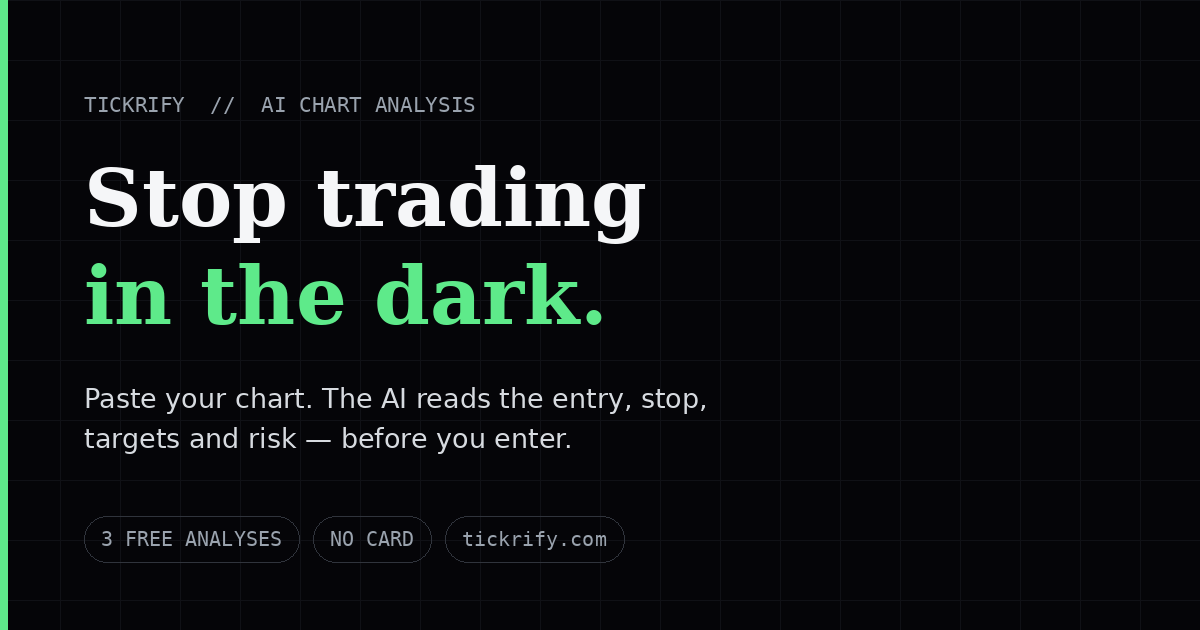
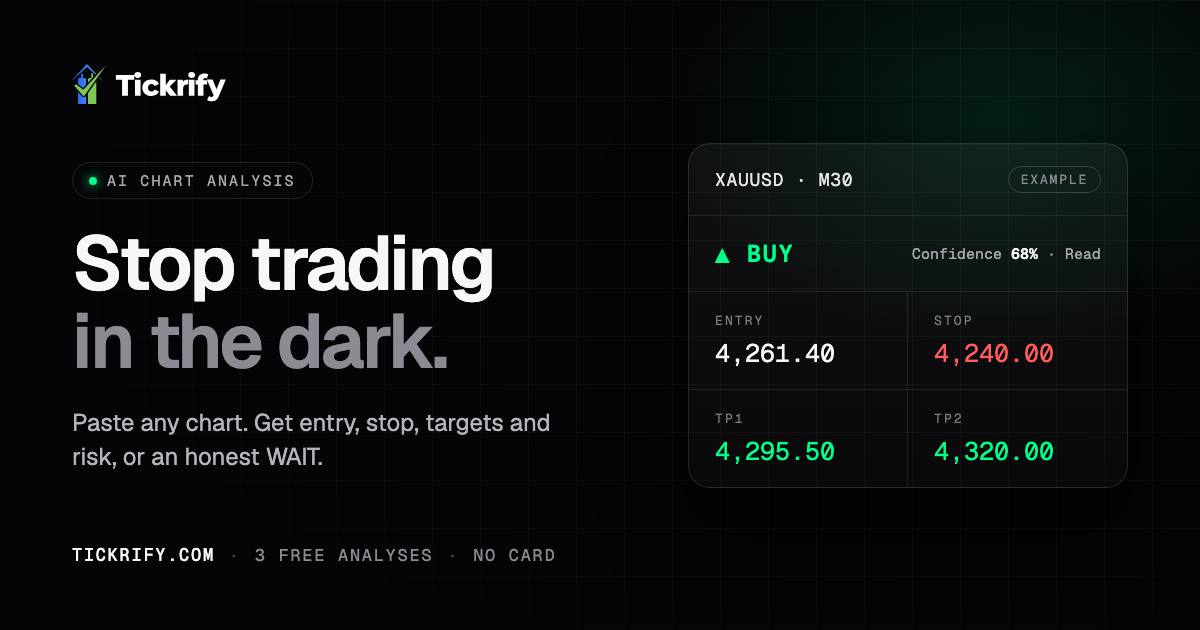
feat(seo): imagem de previa de link refeita na identidade atual
A previa no WhatsApp/Instagram/X usava o og.png antigo (fonte serifada,
verde antigo, texto com travessao). Arte nova com o visual do site e o mesmo
cartao "Example" da landing. Referencias viram og.png?v=2 para furar o cache
de WhatsApp/Facebook; alt de imagem sem travessao.

diff --git a/apps/frontend/public/blog/risk-reward-ratio/index.html b/apps/frontend/public/blog/risk-reward-ratio/index.html
@@ -12,14 +12,14 @@
   <meta property="og:type" content="article" />
   <meta property="og:url" content="https://tickrify.com/blog/risk-reward-ratio/" />
   <meta property="og:site_name" content="Tickrify" />
-  <meta property="og:image" content="https://tickrify.com/og.png" />
+  <meta property="og:image" content="https://tickrify.com/og.png?v=2" />
   <meta property="og:image:width" content="1200" />
   <meta property="og:image:height" content="630" />
   <meta property="og:image:alt" content="Tickrify, AI chart analysis for traders" />
   <meta name="twitter:card" content="summary_large_image" />
   <meta name="twitter:title" content="What Is a Good Risk-Reward Ratio? The Win Rate Each One Requires" />
   <meta name="twitter:description" content="Break-even win rates for every common ratio, the formula, and what costs do to the threshold." />
-  <meta name="twitter:image" content="https://tickrify.com/og.png" />
+  <meta name="twitter:image" content="https://tickrify.com/og.png?v=2" />
   <link rel="preconnect" href="https://fonts.googleapis.com">
   <link rel="preconnect" href="https://fonts.gstatic.com" crossorigin>
   <!-- Fonte fora do caminho critico (21/09/2026). Medido no PageSpeed:
@@ -29,7 +29,7 @@
   <link href="https://fonts.googleapis.com/css2?family=Geist:wght@400;500;600;700&family=JetBrains+Mono:wght@400;500&family=Fraunces:opsz,wght@9..144,400;9..144,500;9..144,600&display=swap" rel="stylesheet" media="print" onload="this.media='all'">
   <noscript><link href="https://fonts.googleapis.com/css2?family=Geist:wght@400;500;600;700&family=JetBrains+Mono:wght@400;500&family=Fraunces:opsz,wght@9..144,400;9..144,500;9..144,600&display=swap" rel="stylesheet"></noscript>
   <script type="application/ld+json">
-  {"@context":"https://schema.org","@type":"Article","headline":"What Is a Good Risk-Reward Ratio? The Win Rate Each One Requires","description":"Break-even win rates for every common risk-reward ratio, the expectancy formula behind them, the effect of trading costs, and why a higher ratio is not free.","datePublished":"2026-09-14","dateModified":"2026-09-14","image":"https://tickrify.com/og.png","author":{"@type":"Organization","name":"Tickrify"},"publisher":{"@type":"Organization","name":"Tickrify"},"mainEntityOfPage":"https://tickrify.com/blog/risk-reward-ratio/"}
+  {"@context":"https://schema.org","@type":"Article","headline":"What Is a Good Risk-Reward Ratio? The Win Rate Each One Requires","description":"Break-even win rates for every common risk-reward ratio, the expectancy formula behind them, the effect of trading costs, and why a higher ratio is not free.","datePublished":"2026-09-14","dateModified":"2026-09-14","image":"https://tickrify.com/og.png?v=2","author":{"@type":"Organization","name":"Tickrify"},"publisher":{"@type":"Organization","name":"Tickrify"},"mainEntityOfPage":"https://tickrify.com/blog/risk-reward-ratio/"}
   </script>
   <script type="application/ld+json">
   {"@context":"https://schema.org","@type":"FAQPage","mainEntity":[{"@type":"Question","name":"What is a good risk-reward ratio?","acceptedAnswer":{"@type":"Answer","text":"There is no universally good ratio. A ratio is only good relative to the win rate you can actually achieve with it. The break-even win rate is 1 divided by (1 plus the ratio): 50 percent at 1:1, 40 percent at 1:1.5, 33.3 percent at 1:2, 25 percent at 1:3 and 20 percent at 1:4. A ratio is good if your real, cost-adjusted win rate clears that line with margin."}},{"@type":"Question","name":"What win rate do I need for a 1:2 risk-reward ratio?","acceptedAnswer":{"@type":"Answer","text":"33.3 percent to break even before costs. Including spread, commission and slippage worth roughly 10 percent of your risk per trade, the threshold rises to about 36.7 percent. To be meaningfully profitable rather than flat, target several points above that."}},{"@type":"Question","name":"Is a 1:3 risk-reward ratio realistic?","acceptedAnswer":{"@type":"Answer","text":"It is realistic only if you accept the win rate that comes with it. A target three times further away is hit less often, so 1:3 typically pairs with a win rate in the 25 to 40 percent range and long losing streaks. Raising the ratio does not add edge by itself, it moves the same edge into a different shape."}},{"@type":"Question","name":"How do trading costs change the break-even win rate?","acceptedAnswer":{"@type":"Answer","text":"The threshold becomes (1 plus c) divided by (1 plus R), where c is the round-trip cost expressed as a fraction of the risk. Costs hurt most at tight stops: the same spread is 2 percent of a 50 pip stop and 20 percent of a 5 pip stop, which is why scalping thresholds are far higher than the textbook numbers."}},{"@type":"Question","name":"Why is my realised risk-reward lower than my planned one?","acceptedAnswer":{"@type":"Answer","text":"Because of early exits. Moving a stop to break-even and taking partial profits early caps the winners that pay for the losers while leaving the full loss intact. If you plan 1:3 and cut most winners at 1:1, you are trading a 1:1 system and need a 50 percent win rate, not 25 percent."}}]}

diff --git a/apps/frontend/public/blog/ai-prop-firm-challenge/index.html b/apps/frontend/public/blog/ai-prop-firm-challenge/index.html
@@ -12,14 +12,14 @@
   <meta property="og:type" content="article" />
   <meta property="og:url" content="https://tickrify.com/blog/ai-prop-firm-challenge/" />
   <meta property="og:site_name" content="Tickrify" />
-  <meta property="og:image" content="https://tickrify.com/og.png" />
+  <meta property="og:image" content="https://tickrify.com/og.png?v=2" />
   <meta property="og:image:width" content="1200" />
   <meta property="og:image:height" content="630" />
   <meta property="og:image:alt" content="Tickrify, AI chart analysis for traders" />
   <meta name="twitter:card" content="summary_large_image" />
   <meta name="twitter:title" content="Can AI Chart Analysis Help You Pass a Prop Firm Challenge?" />
   <meta name="twitter:description" content="Evaluations are lost on risk rules, not on analysis. Here is the honest split." />
-  <meta name="twitter:image" content="https://tickrify.com/og.png" />
+  <meta name="twitter:image" content="https://tickrify.com/og.png?v=2" />
   <link rel="preconnect" href="https://fonts.googleapis.com">
   <link rel="preconnect" href="https://fonts.gstatic.com" crossorigin>
   <!-- Fonte fora do caminho critico (21/09/2026). Medido no PageSpeed:
@@ -29,7 +29,7 @@
   <link href="https://fonts.googleapis.com/css2?family=Geist:wght@400;500;600;700&family=JetBrains+Mono:wght@400;500&family=Fraunces:opsz,wght@9..144,400;9..144,500;9..144,600&display=swap" rel="stylesheet" media="print" onload="this.media='all'">
   <noscript><link href="https://fonts.googleapis.com/css2?family=Geist:wght@400;500;600;700&family=JetBrains+Mono:wght@400;500&family=Fraunces:opsz,wght@9..144,400;9..144,500;9..144,600&display=swap" rel="stylesheet"></noscript>
   <script type="application/ld+json">
-  {"@context":"https://schema.org","@type":"Article","headline":"Can AI Chart Analysis Help You Pass a Prop Firm Challenge?","description":"An honest split of what AI chart analysis helps with during a funded account evaluation, what it structurally cannot see, and how prop firm rules treat analysis tools.","datePublished":"2026-09-14","dateModified":"2026-09-14","image":"https://tickrify.com/og.png","author":{"@type":"Organization","name":"Tickrify"},"publisher":{"@type":"Organization","name":"Tickrify"},"mainEntityOfPage":"https://tickrify.com/blog/ai-prop-firm-challenge/"}
+  {"@context":"https://schema.org","@type":"Article","headline":"Can AI Chart Analysis Help You Pass a Prop Firm Challenge?","description":"An honest split of what AI chart analysis helps with during a funded account evaluation, what it structurally cannot see, and how prop firm rules treat analysis tools.","datePublished":"2026-09-14","dateModified":"2026-09-14","image":"https://tickrify.com/og.png?v=2","author":{"@type":"Organization","name":"Tickrify"},"publisher":{"@type":"Organization","name":"Tickrify"},"mainEntityOfPage":"https://tickrify.com/blog/ai-prop-firm-challenge/"}
   </script>
   <script type="application/ld+json">
   {"@context":"https://schema.org","@type":"FAQPage","mainEntity":[{"@type":"Question","name":"Are AI tools allowed in prop firm challenges?","acceptedAnswer":{"@type":"Answer","text":"Most firms restrict automation, copy trading and account connections rather than analysis. A tool that reads a chart screenshot and gives you an opinion, which you then act on manually, is usually treated like an indicator or a mentor. Rules differ and they change, so read your firm's terms and ask support in writing before you rely on any tool."}},{"@type":"Question","name":"Will AI chart analysis help me pass an evaluation?","acceptedAnswer":{"@type":"Answer","text":"Only at the margin, and only in one direction. Evaluations are usually failed on risk rules rather than on analysis: daily loss limits, oversized positions after a losing streak, and revenge trading. AI helps mainly by removing marginal trades and forcing an invalidation level before entry. It cannot fix position sizing or emotional discipline."}},{"@type":"Question","name":"What percentage of traders pass prop firm challenges?","acceptedAnswer":{"@type":"Answer","text":"Firms and industry trackers that publish figures generally report first-attempt pass rates in the region of 5 to 20 percent depending on the firm and the rule set, with the share of funded accounts that ever take a payout lower still. Treat any specific number as firm-specific and check the source and date."}},{"@type":"Question","name":"Does AI know my remaining drawdown?","acceptedAnswer":{"@type":"Answer","text":"No. A chart analysis tool does not see your account, your balance, your open positions or how close you are to a daily loss limit. It reads a chart. Every risk decision, which is what the evaluation actually measures, stays with you."}},{"@type":"Question","name":"What actually fails most challenge accounts?","acceptedAnswer":{"@type":"Answer","text":"Breaching a daily loss limit, usually after increasing size to recover a loss the same day; trading a news event with a stop that could not hold; and taking too many marginal setups in the final days while chasing the profit target."}}]}

diff --git a/apps/frontend/public/blog/free-ai-chart-analysis/index.html b/apps/frontend/public/blog/free-ai-chart-analysis/index.html
@@ -12,14 +12,14 @@
   <meta property="og:type" content="article" />
   <meta property="og:url" content="https://tickrify.com/blog/free-ai-chart-analysis/" />
   <meta property="og:site_name" content="Tickrify" />
-  <meta property="og:image" content="https://tickrify.com/og.png" />
+  <meta property="og:image" content="https://tickrify.com/og.png?v=2" />
   <meta property="og:image:width" content="1200" />
   <meta property="og:image:height" content="630" />
   <meta property="og:image:alt" content="Tickrify, AI chart analysis for traders" />
   <meta name="twitter:card" content="summary_large_image" />
   <meta name="twitter:title" content="Free AI Chart Analysis in 2026: What You Actually Get Without Paying" />
   <meta name="twitter:description" content="What is genuinely free, what free tiers hide, and the three jobs where free is honestly enough." />
-  <meta name="twitter:image" content="https://tickrify.com/og.png" />
+  <meta name="twitter:image" content="https://tickrify.com/og.png?v=2" />
   <link rel="preconnect" href="https://fonts.googleapis.com">
   <link rel="preconnect" href="https://fonts.gstatic.com" crossorigin>
   <!-- Fonte fora do caminho critico (21/09/2026). Medido no PageSpeed:
@@ -29,7 +29,7 @@
   <link href="https://fonts.googleapis.com/css2?family=Geist:wght@400;500;600;700&family=JetBrains+Mono:wght@400;500&family=Fraunces:opsz,wght@9..144,400;9..144,500;9..144,600&display=swap" rel="stylesheet" media="print" onload="this.media='all'">
   <noscript><link href="https://fonts.googleapis.com/css2?family=Geist:wght@400;500;600;700&family=JetBrains+Mono:wght@400;500&family=Fraunces:opsz,wght@9..144,400;9..144,500;9..144,600&display=swap" rel="stylesheet"></noscript>
   <script type="application/ld+json">
-  {"@context":"https://schema.org","@type":"Article","headline":"Free AI Chart Analysis in 2026: What You Actually Get Without Paying","description":"A vendor's honest map of free AI chart analysis: what general chat models do well, what free tiers hide, and the three jobs where free is enough.","datePublished":"2026-09-14","dateModified":"2026-09-14","image":"https://tickrify.com/og.png","author":{"@type":"Organization","name":"Tickrify"},"publisher":{"@type":"Organization","name":"Tickrify"},"mainEntityOfPage":"https://tickrify.com/blog/free-ai-chart-analysis/"}
+  {"@context":"https://schema.org","@type":"Article","headline":"Free AI Chart Analysis in 2026: What You Actually Get Without Paying","description":"A vendor's honest map of free AI chart analysis: what general chat models do well, what free tiers hide, and the three jobs where free is enough.","datePublished":"2026-09-14","dateModified":"2026-09-14","image":"https://tickrify.com/og.png?v=2","author":{"@type":"Organization","name":"Tickrify"},"publisher":{"@type":"Organization","name":"Tickrify"},"mainEntityOfPage":"https://tickrify.com/blog/free-ai-chart-analysis/"}
   </script>
   <script type="application/ld+json">
   {"@context":"https://schema.org","@type":"FAQPage","mainEntity":[{"@type":"Question","name":"Is there a free AI that analyses trading charts?","acceptedAnswer":{"@type":"Answer","text":"Yes. General chat models with vision, such as ChatGPT, Gemini and Claude, read chart screenshots at no cost and describe structure well. Several purpose-built tools also offer a limited free allowance. The differences are grounding in live price data, whether the tool is allowed to refuse a setup, and whether results are published."}},{"@type":"Question","name":"Can I analyse a chart with AI without signing up?","acceptedAnswer":{"@type":"Answer","text":"Some tools allow it. Tickrify offers a no-signup demo analysis at tickrify.com/try, with three free analyses after signup and no card required. Most competing free tiers require an account, and some require a card before the first analysis."}},{"@type":"Question","name":"What is the catch with free AI chart analysis?","acceptedAnswer":{"@type":"Answer","text":"The three common ones are a card required before the trial, a free tier that never refuses a setup because it exists to sell an upgrade, and reads with invented price levels because nothing grounds the model in live candles. None of those are visible from the pricing page."}},{"@type":"Question","name":"Is free AI chart analysis accurate?","acceptedAnswer":{"@type":"Answer","text":"Free tools are good at describing structure and bad at precise numbers. A vision model reading an image commonly invents entry and stop prices that are close to plausible and wrong by enough to matter. Verify every level against your own chart before acting on it."}},{"@type":"Question","name":"When is it worth paying for chart analysis?","acceptedAnswer":{"@type":"Answer","text":"When you need the same standard applied every time without writing the prompt, live data behind the read, a tool structurally permitted to say no trade, and a published track record. If you will genuinely run a careful prompt yourself every time, free is enough and you should keep your money."}}]}

diff --git a/apps/frontend/public/blog/can-ai-predict-the-market/index.html b/apps/frontend/public/blog/can-ai-predict-the-market/index.html
@@ -12,14 +12,14 @@
   <meta property="og:type" content="article" />
   <meta property="og:url" content="https://tickrify.com/blog/can-ai-predict-the-market/" />
   <meta property="og:site_name" content="Tickrify" />
-  <meta property="og:image" content="https://tickrify.com/og.png" />
+  <meta property="og:image" content="https://tickrify.com/og.png?v=2" />
   <meta property="og:image:width" content="1200" />
   <meta property="og:image:height" content="630" />
   <meta property="og:image:alt" content="Tickrify, AI chart analysis for traders" />
   <meta name="twitter:card" content="summary_large_image" />
   <meta name="twitter:title" content="Can AI Predict the Market? An Honest 2026 Answer" />
   <meta name="twitter:description" content="Prediction is the wrong question. Here is what AI actually does with a chart, and what it structurally cannot see." />
-  <meta name="twitter:image" content="https://tickrify.com/og.png" />
+  <meta name="twitter:image" content="https://tickrify.com/og.png?v=2" />
   <link rel="preconnect" href="https://fonts.googleapis.com">
   <link rel="preconnect" href="https://fonts.gstatic.com" crossorigin>
   <!-- Fonte fora do caminho critico (21/09/2026). Medido no PageSpeed:
@@ -29,7 +29,7 @@
   <link href="https://fonts.googleapis.com/css2?family=Geist:wght@400;500;600;700&family=JetBrains+Mono:wght@400;500&family=Fraunces:opsz,wght@9..144,400;9..144,500;9..144,600&display=swap" rel="stylesheet" media="print" onload="this.media='all'">
   <noscript><link href="https://fonts.googleapis.com/css2?family=Geist:wght@400;500;600;700&family=JetBrains+Mono:wght@400;500&family=Fraunces:opsz,wght@9..144,400;9..144,500;9..144,600&display=swap" rel="stylesheet"></noscript>
   <script type="application/ld+json">
-  {"@context":"https://schema.org","@type":"Article","headline":"Can AI Predict the Market? An Honest 2026 Answer","description":"Why prediction is the wrong question to ask of AI in markets, what a model genuinely extracts from a chart, and the four inputs it structurally cannot see.","datePublished":"2026-09-14","dateModified":"2026-09-14","image":"https://tickrify.com/og.png","author":{"@type":"Organization","name":"Tickrify"},"publisher":{"@type":"Organization","name":"Tickrify"},"mainEntityOfPage":"https://tickrify.com/blog/can-ai-predict-the-market/"}
+  {"@context":"https://schema.org","@type":"Article","headline":"Can AI Predict the Market? An Honest 2026 Answer","description":"Why prediction is the wrong question to ask of AI in markets, what a model genuinely extracts from a chart, and the four inputs it structurally cannot see.","datePublished":"2026-09-14","dateModified":"2026-09-14","image":"https://tickrify.com/og.png?v=2","author":{"@type":"Organization","name":"Tickrify"},"publisher":{"@type":"Organization","name":"Tickrify"},"mainEntityOfPage":"https://tickrify.com/blog/can-ai-predict-the-market/"}
   </script>
   <script type="application/ld+json">
   {"@context":"https://schema.org","@type":"FAQPage","mainEntity":[{"@type":"Question","name":"Can AI predict stock prices?","acceptedAnswer":{"@type":"Answer","text":"No. AI can estimate conditional probabilities from patterns in past data, but price is driven by future information that does not exist in the training set yet. Any tool claiming to predict price is describing a probability as a certainty."}},{"@type":"Question","name":"Is AI trading profitable?","acceptedAnswer":{"@type":"Answer","text":"AI-assisted trading can be profitable for the same reason any process can be: positive expectancy after costs, held consistently. The AI is not the edge. Position sizing, cost control and discipline decide the outcome, and a win rate quoted without spread, commission and slippage says nothing about profitability."}},{"@type":"Question","name":"Can ChatGPT predict the market?","acceptedAnswer":{"@type":"Answer","text":"No. ChatGPT can describe a chart you show it and reason about structure, but it has no live order flow, no reliable price feed unless you give it one, and it will invent specific price levels from an image. Treat it as a reader, not a forecaster."}},{"@type":"Question","name":"What accuracy can AI chart analysis realistically achieve?","acceptedAnswer":{"@type":"Answer","text":"Any figure is meaningless without the sample size, the confidence interval, the rule used to score a call, and whether trading costs were deducted. A tool that publishes a modest number with its methodology is more trustworthy than one advertising a high number with none."}},{"@type":"Question","name":"If AI cannot predict, what is it useful for?","acceptedAnswer":{"@type":"Answer","text":"Reading structure consistently, forcing an invalidation level before entry, applying the same standard when you are calm and when you are on tilt, and abstaining when there is no setup. That is a process filter, not a forecast."}}]}

diff --git a/apps/frontend/public/blog/tickrify-vs-chatgpt/index.html b/apps/frontend/public/blog/tickrify-vs-chatgpt/index.html
@@ -12,14 +12,14 @@
   <meta property="og:type" content="article" />
   <meta property="og:url" content="https://tickrify.com/blog/tickrify-vs-chatgpt/" />
   <meta property="og:site_name" content="Tickrify" />
-  <meta property="og:image" content="https://tickrify.com/og.png" />
+  <meta property="og:image" content="https://tickrify.com/og.png?v=2" />
   <meta property="og:image:width" content="1200" />
   <meta property="og:image:height" content="630" />
-  <meta property="og:image:alt" content="Tickrify — AI chart analysis for traders" />
+  <meta property="og:image:alt" content="Tickrify, AI chart analysis for traders" />
   <meta name="twitter:card" content="summary_large_image" />
   <meta name="twitter:title" content="Tickrify vs ChatGPT for Trading Charts: When Is Paying Worth It?" />
   <meta name="twitter:description" content="Free ChatGPT vs a purpose-built second opinion, head to head — from the vendor that will tell you to keep using ChatGPT if it serves you better." />
-  <meta name="twitter:image" content="https://tickrify.com/og.png" />
+  <meta name="twitter:image" content="https://tickrify.com/og.png?v=2" />
   <link rel="preconnect" href="https://fonts.googleapis.com">
   <link rel="preconnect" href="https://fonts.gstatic.com" crossorigin>
   <!-- Fonte fora do caminho critico (21/09/2026). Medido no PageSpeed:
@@ -29,7 +29,7 @@
   <link href="https://fonts.googleapis.com/css2?family=Geist:wght@400;500;600;700&family=JetBrains+Mono:wght@400;500&family=Fraunces:opsz,wght@9..144,400;9..144,500;9..144,600&display=swap" rel="stylesheet" media="print" onload="this.media='all'">
   <noscript><link href="https://fonts.googleapis.com/css2?family=Geist:wght@400;500;600;700&family=JetBrains+Mono:wght@400;500&family=Fraunces:opsz,wght@9..144,400;9..144,500;9..144,600&display=swap" rel="stylesheet"></noscript>
   <script type="application/ld+json">
-  {"@context":"https://schema.org","@type":"Article","headline":"Tickrify vs ChatGPT for Trading Charts: When Is Paying Worth It?","datePublished":"2026-07-22","dateModified":"2026-08-10","image":"https://tickrify.com/og.png","author":{"@type":"Organization","name":"Tickrify"},"publisher":{"@type":"Organization","name":"Tickrify"},"mainEntityOfPage":"https://tickrify.com/blog/tickrify-vs-chatgpt/"}
+  {"@context":"https://schema.org","@type":"Article","headline":"Tickrify vs ChatGPT for Trading Charts: When Is Paying Worth It?","datePublished":"2026-07-22","dateModified":"2026-08-10","image":"https://tickrify.com/og.png?v=2","author":{"@type":"Organization","name":"Tickrify"},"publisher":{"@type":"Organization","name":"Tickrify"},"mainEntityOfPage":"https://tickrify.com/blog/tickrify-vs-chatgpt/"}
   </script>
   <script type="application/ld+json">
   {"@context": "https://schema.org", "@type": "FAQPage", "mainEntity": [{"@type": "Question", "name": "Is Tickrify better than ChatGPT for charts?", "acceptedAnswer": {"@type": "Answer", "text": "For a decision checkpoint, it does things ChatGPT can't: live price grounding, a forced verdict with invalidation, WAIT discipline, and a stored history. For learning and open-ended questions, ChatGPT is better. They're different jobs."}}, {"@type": "Question", "name": "Can't I just prompt ChatGPT better and skip paying?", "acceptedAnswer": {"@type": "Answer", "text": "Largely, yes — there's a copy-paste prompt above that closes most of the gap. What it can't do is supply accurate live prices automatically or keep a record. If you'll do that manually every time, free is the right answer."}}, {"@type": "Question", "name": "How much does Tickrify cost?", "acceptedAnswer": {"@type": "Answer", "text": "Three analyses free with no card, then $29/mo for 200 Ticks — about 15 cents per quick analysis. Full pricing here."}}, {"@type": "Question", "name": "Does Tickrify use a different AI model than ChatGPT?", "acceptedAnswer": {"@type": "Answer", "text": "Underneath it's the same family of vision-language models. The difference is what surrounds the model: live data, deterministic maths, forced output structure and outcome tracking — not a secret model."}}, {"@type": "Question", "name": "Does Tickrify publish its accuracy?", "acceptedAnswer": {"@type": "Answer", "text": "Yes, with sample sizes and 95% confidence intervals, including results that don't flatter us — on the accuracy page. We're not aware of another tool in this category that publishes one."}}]}

diff --git a/apps/frontend/public/blog/chatgpt-chart-analysis/index.html b/apps/frontend/public/blog/chatgpt-chart-analysis/index.html
@@ -12,14 +12,14 @@
   <meta property="og:type" content="article" />
   <meta property="og:url" content="https://tickrify.com/blog/chatgpt-chart-analysis/" />
   <meta property="og:site_name" content="Tickrify" />
-  <meta property="og:image" content="https://tickrify.com/og.png" />
+  <meta property="og:image" content="https://tickrify.com/og.png?v=2" />
   <meta property="og:image:width" content="1200" />
   <meta property="og:image:height" content="630" />
-  <meta property="og:image:alt" content="Tickrify — AI chart analysis for traders" />
+  <meta property="og:image:alt" content="Tickrify, AI chart analysis for traders" />
   <meta name="twitter:card" content="summary_large_image" />
   <meta name="twitter:title" content="Can ChatGPT Analyze Trading Charts? An Honest 2026 Answer" />
   <meta name="twitter:description" content="What ChatGPT does well with charts, where it fails, and when a purpose-built tool is worth paying for — from a company with an admitted bias." />
-  <meta name="twitter:image" content="https://tickrify.com/og.png" />
+  <meta name="twitter:image" content="https://tickrify.com/og.png?v=2" />
   <link rel="preconnect" href="https://fonts.googleapis.com">
   <link rel="preconnect" href="https://fonts.gstatic.com" crossorigin>
   <!-- Fonte fora do caminho critico (21/09/2026). Medido no PageSpeed:
@@ -29,7 +29,7 @@
   <link href="https://fonts.googleapis.com/css2?family=Geist:wght@400;500;600;700&family=JetBrains+Mono:wght@400;500&family=Fraunces:opsz,wght@9..144,400;9..144,500;9..144,600&display=swap" rel="stylesheet" media="print" onload="this.media='all'">
   <noscript><link href="https://fonts.googleapis.com/css2?family=Geist:wght@400;500;600;700&family=JetBrains+Mono:wght@400;500&family=Fraunces:opsz,wght@9..144,400;9..144,500;9..144,600&display=swap" rel="stylesheet"></noscript>
   <script type="application/ld+json">
-  {"@context":"https://schema.org","@type":"Article","headline":"Can ChatGPT Analyze Trading Charts? An Honest 2026 Answer","datePublished":"2026-07-20","dateModified":"2026-08-10","image":"https://tickrify.com/og.png","author":{"@type":"Organization","name":"Tickrify"},"publisher":{"@type":"Organization","name":"Tickrify"},"mainEntityOfPage":"https://tickrify.com/blog/chatgpt-chart-analysis/"}
+  {"@context":"https://schema.org","@type":"Article","headline":"Can ChatGPT Analyze Trading Charts? An Honest 2026 Answer","datePublished":"2026-07-20","dateModified":"2026-08-10","image":"https://tickrify.com/og.png?v=2","author":{"@type":"Organization","name":"Tickrify"},"publisher":{"@type":"Organization","name":"Tickrify"},"mainEntityOfPage":"https://tickrify.com/blog/chatgpt-chart-analysis/"}
   </script>
   <script type="application/ld+json">
   {"@context": "https://schema.org", "@type": "FAQPage", "mainEntity": [{"@type": "Question", "name": "Can ChatGPT read a chart screenshot?", "acceptedAnswer": {"@type": "Answer", "text": "Yes. It identifies trend, structure, patterns and approximate support and resistance from an image. What it can't do is know the real current price, or whether your screenshot is current."}}, {"@type": "Question", "name": "Is ChatGPT accurate for trading?", "acceptedAnswer": {"@type": "Answer", "text": "It's reasonable at describing what a chart shows and unreliable at anything requiring exact price. Nobody — including paid tools — has demonstrated a profitable edge on raw AI chart signals after spreads, slippage and fees."}}, {"@type": "Question", "name": "What's the best prompt for chart analysis?", "acceptedAnswer": {"@type": "Answer", "text": "One that supplies the current price, forces a fixed set of fields including invalidation, and explicitly permits \"no trade\". There's a copy-paste version above."}}, {"@type": "Question", "name": "Should I pay for an AI chart tool instead?", "acceptedAnswer": {"@type": "Answer", "text": "Only if it adds live data, forced structure, auditable confidence and history. Test the free option first — if it changes your decisions just as much, keep your money."}}, {"@type": "Question", "name": "Can ChatGPT predict where price is going?", "acceptedAnswer": {"@type": "Answer", "text": "No. A chart image contains nothing about upcoming news, order flow or resting liquidity. It's pattern recognition over the past, not prediction."}}]}

diff --git a/apps/frontend/public/blog/trading-second-opinion/index.html b/apps/frontend/public/blog/trading-second-opinion/index.html
@@ -12,14 +12,14 @@
   <meta property="og:type" content="article" />
   <meta property="og:url" content="https://tickrify.com/blog/trading-second-opinion/" />
   <meta property="og:site_name" content="Tickrify" />
-  <meta property="og:image" content="https://tickrify.com/og.png" />
+  <meta property="og:image" content="https://tickrify.com/og.png?v=2" />
   <meta property="og:image:width" content="1200" />
   <meta property="og:image:height" content="630" />
-  <meta property="og:image:alt" content="Tickrify — AI chart analysis for traders" />
+  <meta property="og:image:alt" content="Tickrify, AI chart analysis for traders" />
   <meta name="twitter:card" content="summary_large_image" />
   <meta name="twitter:title" content="You Don't Need More Signals. You Need a Second Opinion." />
   <meta name="twitter:description" content="Signal-selling is broken by design. A confirm-or-kill checkpoint is a different thing entirely." />
-  <meta name="twitter:image" content="https://tickrify.com/og.png" />
+  <meta name="twitter:image" content="https://tickrify.com/og.png?v=2" />
   <link rel="preconnect" href="https://fonts.googleapis.com">
   <link rel="preconnect" href="https://fonts.gstatic.com" crossorigin>
   <!-- Fonte fora do caminho critico (21/09/2026). Medido no PageSpeed:
@@ -29,7 +29,7 @@
   <link href="https://fonts.googleapis.com/css2?family=Geist:wght@400;500;600;700&family=JetBrains+Mono:wght@400;500&family=Fraunces:opsz,wght@9..144,400;9..144,500;9..144,600&display=swap" rel="stylesheet" media="print" onload="this.media='all'">
   <noscript><link href="https://fonts.googleapis.com/css2?family=Geist:wght@400;500;600;700&family=JetBrains+Mono:wght@400;500&family=Fraunces:opsz,wght@9..144,400;9..144,500;9..144,600&display=swap" rel="stylesheet"></noscript>
   <script type="application/ld+json">
-  {"@context":"https://schema.org","@type":"Article","headline":"You Don't Need More Signals. You Need a Second Opinion.","datePublished":"2026-07-20","dateModified":"2026-08-10","image":"https://tickrify.com/og.png","author":{"@type":"Organization","name":"Tickrify"},"publisher":{"@type":"Organization","name":"Tickrify"},"mainEntityOfPage":"https://tickrify.com/blog/trading-second-opinion/"}
+  {"@context":"https://schema.org","@type":"Article","headline":"You Don't Need More Signals. You Need a Second Opinion.","datePublished":"2026-07-20","dateModified":"2026-08-10","image":"https://tickrify.com/og.png?v=2","author":{"@type":"Organization","name":"Tickrify"},"publisher":{"@type":"Organization","name":"Tickrify"},"mainEntityOfPage":"https://tickrify.com/blog/trading-second-opinion/"}
   </script>
   <script type="application/ld+json">
   {"@context": "https://schema.org", "@type": "FAQPage", "mainEntity": [{"@type": "Question", "name": "What's the difference between a trading signal and a second opinion?", "acceptedAnswer": {"@type": "Answer", "text": "A signal originates the idea and tells you to act. A second opinion starts from your idea and either confirms or kills it. The first adds trades; the second removes them."}}, {"@type": "Question", "name": "Are AI trading signals worth paying for?", "acceptedAnswer": {"@type": "Answer", "text": "Anything advertising a high win rate without a published methodology and sample size is selling certainty that doesn't exist. Nobody in this category has demonstrated raw signals that survive spreads, slippage and fees."}}, {"@type": "Question", "name": "Does saying \"no trade\" mean the tool is broken?", "acceptedAnswer": {"@type": "Answer", "text": "No — a high abstention rate is what a tool with no signal quota looks like. Most charts, most of the time, don't contain a setup worth risking money on."}}, {"@type": "Question", "name": "How do I stop overtrading?", "acceptedAnswer": {"@type": "Answer", "text": "Write your read down before entering, refuse any trade without a defined invalidation, impose a delay between decision and click, and log outcomes. Those four cost nothing and address the actual failure point."}}, {"@type": "Question", "name": "Can I do this without buying a tool?", "acceptedAnswer": {"@type": "Answer", "text": "Yes — there's a six-step version above. A paid checkpoint automates it for the day your discipline is weakest, which is the only honest thing it's selling."}}]}

diff --git a/apps/frontend/public/blog/tickrify-vs-tradingview/index.html b/apps/frontend/public/blog/tickrify-vs-tradingview/index.html
@@ -12,14 +12,14 @@
   <meta property="og:type" content="article" />
   <meta property="og:url" content="https://tickrify.com/blog/tickrify-vs-tradingview/" />
   <meta property="og:site_name" content="Tickrify" />
-  <meta property="og:image" content="https://tickrify.com/og.png" />
+  <meta property="og:image" content="https://tickrify.com/og.png?v=2" />
   <meta property="og:image:width" content="1200" />
   <meta property="og:image:height" content="630" />
-  <meta property="og:image:alt" content="Tickrify — AI chart analysis for traders" />
+  <meta property="og:image:alt" content="Tickrify, AI chart analysis for traders" />
   <meta name="twitter:card" content="summary_large_image" />
   <meta name="twitter:title" content="Tickrify vs TradingView (2026): Do You Actually Need Both?" />
   <meta name="twitter:description" content="One is where you watch the market. The other tells you whether a specific setup is worth the risk. An honest comparison by the vendor of one of them." />
-  <meta name="twitter:image" content="https://tickrify.com/og.png" />
+  <meta name="twitter:image" content="https://tickrify.com/og.png?v=2" />
   <link rel="preconnect" href="https://fonts.googleapis.com">
   <link rel="preconnect" href="https://fonts.gstatic.com" crossorigin>
   <!-- Fonte fora do caminho critico (21/09/2026). Medido no PageSpeed:
@@ -29,7 +29,7 @@
   <link href="https://fonts.googleapis.com/css2?family=Geist:wght@400;500;600;700&family=JetBrains+Mono:wght@400;500&family=Fraunces:opsz,wght@9..144,400;9..144,500;9..144,600&display=swap" rel="stylesheet" media="print" onload="this.media='all'">
   <noscript><link href="https://fonts.googleapis.com/css2?family=Geist:wght@400;500;600;700&family=JetBrains+Mono:wght@400;500&family=Fraunces:opsz,wght@9..144,400;9..144,500;9..144,600&display=swap" rel="stylesheet"></noscript>
   <script type="application/ld+json">
-  {"@context":"https://schema.org","@type":"Article","headline":"Tickrify vs TradingView: Do You Actually Need Both?","datePublished":"2026-07-22","dateModified":"2026-08-10","image":"https://tickrify.com/og.png","author":{"@type":"Organization","name":"Tickrify"},"publisher":{"@type":"Organization","name":"Tickrify"},"mainEntityOfPage":"https://tickrify.com/blog/tickrify-vs-tradingview/"}
+  {"@context":"https://schema.org","@type":"Article","headline":"Tickrify vs TradingView: Do You Actually Need Both?","datePublished":"2026-07-22","dateModified":"2026-08-10","image":"https://tickrify.com/og.png?v=2","author":{"@type":"Organization","name":"Tickrify"},"publisher":{"@type":"Organization","name":"Tickrify"},"mainEntityOfPage":"https://tickrify.com/blog/tickrify-vs-tradingview/"}
   </script>
   <script type="application/ld+json">
   {"@context": "https://schema.org", "@type": "FAQPage", "mainEntity": [{"@type": "Question", "name": "Is Tickrify a TradingView replacement?", "acceptedAnswer": {"@type": "Answer", "text": "No, and it isn't trying to be. It has no charting, no alerts, no screeners and no broker integration. Most users screenshot from TradingView."}}, {"@type": "Question", "name": "Do I need both?", "acceptedAnswer": {"@type": "Answer", "text": "You need charts. Whether you need a second opinion on top depends on whether your losses come from bad entries you'd have skipped with a checkpoint. If you had to pick one, pick the charting platform."}}, {"@type": "Question", "name": "How is this different from TradingView's own AI assistant?", "acceptedAnswer": {"@type": "Answer", "text": "Two things: it's willing to return \"no trade\", and its results are published with sample sizes and confidence intervals. If you're happy with the in-chart copilot, you may not need us."}}, {"@type": "Question", "name": "Does Tickrify work with screenshots from other platforms?", "acceptedAnswer": {"@type": "Answer", "text": "Yes — MetaTrader, exchange interfaces, mobile apps. It reads the instrument and timeframe from the chart and fetches real candles for it."}}, {"@type": "Question", "name": "Can Tickrify place trades for me?", "acceptedAnswer": {"@type": "Answer", "text": "No, and it won't. A tool that both advises and executes has an incentive problem we'd rather not have."}}]}

diff --git a/apps/frontend/public/blog/best-ai-chart-analysis-tools/index.html b/apps/frontend/public/blog/best-ai-chart-analysis-tools/index.html
@@ -12,14 +12,14 @@
   <meta property="og:type" content="article" />
   <meta property="og:url" content="https://tickrify.com/blog/best-ai-chart-analysis-tools/" />
   <meta property="og:site_name" content="Tickrify" />
-  <meta property="og:image" content="https://tickrify.com/og.png" />
+  <meta property="og:image" content="https://tickrify.com/og.png?v=2" />
   <meta property="og:image:width" content="1200" />
   <meta property="og:image:height" content="630" />
-  <meta property="og:image:alt" content="Tickrify — AI chart analysis for traders" />
+  <meta property="og:image:alt" content="Tickrify, AI chart analysis for traders" />
   <meta name="twitter:card" content="summary_large_image" />
   <meta name="twitter:title" content="Best AI Chart Analysis Tools in 2026: An Honest Comparison" />
   <meta name="twitter:description" content="The screenshot-analysis niche compared on the four things that matter — by a vendor that admits its bias upfront." />
-  <meta name="twitter:image" content="https://tickrify.com/og.png" />
+  <meta name="twitter:image" content="https://tickrify.com/og.png?v=2" />
   <link rel="preconnect" href="https://fonts.googleapis.com">
   <link rel="preconnect" href="https://fonts.gstatic.com" crossorigin>
   <!-- Fonte fora do caminho critico (21/09/2026). Medido no PageSpeed:
@@ -29,7 +29,7 @@
   <link href="https://fonts.googleapis.com/css2?family=Geist:wght@400;500;600;700&family=JetBrains+Mono:wght@400;500&family=Fraunces:opsz,wght@9..144,400;9..144,500;9..144,600&display=swap" rel="stylesheet" media="print" onload="this.media='all'">
   <noscript><link href="https://fonts.googleapis.com/css2?family=Geist:wght@400;500;600;700&family=JetBrains+Mono:wght@400;500&family=Fraunces:opsz,wght@9..144,400;9..144,500;9..144,600&display=swap" rel="stylesheet"></noscript>
   <script type="application/ld+json">
-  {"@context":"https://schema.org","@type":"Article","headline":"Best AI Chart Analysis Tools in 2026: An Honest Comparison (Including Ours)","datePublished":"2026-07-20","dateModified":"2026-08-10","image":"https://tickrify.com/og.png","author":{"@type":"Organization","name":"Tickrify"},"publisher":{"@type":"Organization","name":"Tickrify"},"mainEntityOfPage":"https://tickrify.com/blog/best-ai-chart-analysis-tools/"}
+  {"@context":"https://schema.org","@type":"Article","headline":"Best AI Chart Analysis Tools in 2026: An Honest Comparison (Including Ours)","datePublished":"2026-07-20","dateModified":"2026-08-10","image":"https://tickrify.com/og.png?v=2","author":{"@type":"Organization","name":"Tickrify"},"publisher":{"@type":"Organization","name":"Tickrify"},"mainEntityOfPage":"https://tickrify.com/blog/best-ai-chart-analysis-tools/"}
   </script>
   <script type="application/ld+json">
   {"@context":"https://schema.org","@type":"FAQPage","mainEntity":[

diff --git a/apps/frontend/public/blog/ai-chart-analysis/index.html b/apps/frontend/public/blog/ai-chart-analysis/index.html
@@ -12,14 +12,14 @@
   <meta property="og:type" content="article" />
   <meta property="og:url" content="https://tickrify.com/blog/ai-chart-analysis/" />
   <meta property="og:site_name" content="Tickrify" />
-  <meta property="og:image" content="https://tickrify.com/og.png" />
+  <meta property="og:image" content="https://tickrify.com/og.png?v=2" />
   <meta property="og:image:width" content="1200" />
   <meta property="og:image:height" content="630" />
-  <meta property="og:image:alt" content="Tickrify — AI chart analysis for traders" />
+  <meta property="og:image:alt" content="Tickrify, AI chart analysis for traders" />
   <meta name="twitter:card" content="summary_large_image" />
   <meta name="twitter:title" content="AI Chart Analysis in 2026: What It Actually Does (and What It Can't)" />
   <meta name="twitter:description" content="Where AI chart analysis genuinely helps traders — and its failure modes nobody selling a tool will mention." />
-  <meta name="twitter:image" content="https://tickrify.com/og.png" />
+  <meta name="twitter:image" content="https://tickrify.com/og.png?v=2" />
   <link rel="preconnect" href="https://fonts.googleapis.com">
   <link rel="preconnect" href="https://fonts.gstatic.com" crossorigin>
   <!-- Fonte fora do caminho critico (21/09/2026). Medido no PageSpeed:
@@ -29,7 +29,7 @@
   <link href="https://fonts.googleapis.com/css2?family=Geist:wght@400;500;600;700&family=JetBrains+Mono:wght@400;500&family=Fraunces:opsz,wght@9..144,400;9..144,500;9..144,600&display=swap" rel="stylesheet" media="print" onload="this.media='all'">
   <noscript><link href="https://fonts.googleapis.com/css2?family=Geist:wght@400;500;600;700&family=JetBrains+Mono:wght@400;500&family=Fraunces:opsz,wght@9..144,400;9..144,500;9..144,600&display=swap" rel="stylesheet"></noscript>
   <script type="application/ld+json">
-  {"@context":"https://schema.org","@type":"Article","headline":"AI Chart Analysis in 2026: What It Actually Does (and What It Can't)","datePublished":"2026-07-20","dateModified":"2026-08-10","image":"https://tickrify.com/og.png","author":{"@type":"Organization","name":"Tickrify"},"publisher":{"@type":"Organization","name":"Tickrify"},"mainEntityOfPage":"https://tickrify.com/blog/ai-chart-analysis/"}
+  {"@context":"https://schema.org","@type":"Article","headline":"AI Chart Analysis in 2026: What It Actually Does (and What It Can't)","datePublished":"2026-07-20","dateModified":"2026-08-10","image":"https://tickrify.com/og.png?v=2","author":{"@type":"Organization","name":"Tickrify"},"publisher":{"@type":"Organization","name":"Tickrify"},"mainEntityOfPage":"https://tickrify.com/blog/ai-chart-analysis/"}
   </script>
   <script type="application/ld+json">
   {"@context":"https://schema.org","@type":"FAQPage","mainEntity":[

diff --git a/apps/frontend/index.html b/apps/frontend/index.html
@@ -43,15 +43,15 @@
     <meta property="og:description" content="Upload a trading chart and get a structured AI read: entry, stop, targets, risk and an explicit WAIT. Try 3 analyses free, no card required." />
     <meta property="og:type" content="website" />
     <meta property="og:url" content="https://tickrify.com/" />
-    <meta property="og:image" content="https://tickrify.com/og.png" />
+    <meta property="og:image" content="https://tickrify.com/og.png?v=2" />
     <meta property="og:image:width" content="1200" />
     <meta property="og:image:height" content="630" />
-    <meta property="og:image:alt" content="Tickrify: stop trading in the dark. AI reads the entry, stop, targets and risk."/>
+    <meta property="og:image:alt" content="Tickrify: stop trading in the dark. Paste any chart and get entry, stop, targets and risk, or an honest WAIT."/>
 
     <meta name="twitter:card" content="summary_large_image" />
     <meta name="twitter:title" content="AI Chart Analysis for Forex, Gold &amp; Crypto | Tickrify" />
     <meta name="twitter:description" content="Upload a trading chart and get a structured AI read: entry, stop, targets, risk and an explicit WAIT. Try 3 analyses free, no card required." />
-    <meta name="twitter:image" content="https://tickrify.com/og.png" />
+    <meta name="twitter:image" content="https://tickrify.com/og.png?v=2" />
 
     <script type="application/ld+json">
       {

diff --git a/apps/frontend/public/for/metatrader/index.html b/apps/frontend/public/for/metatrader/index.html
@@ -12,14 +12,14 @@
   <meta property="og:type" content="website" />
   <meta property="og:url" content="https://tickrify.com/for/metatrader/" />
   <meta property="og:site_name" content="Tickrify" />
-  <meta property="og:image" content="https://tickrify.com/og.png" />
+  <meta property="og:image" content="https://tickrify.com/og.png?v=2" />
   <meta property="og:image:width" content="1200" />
   <meta property="og:image:height" content="630" />
   <meta property="og:image:alt" content="Tickrify, AI chart analysis for traders" />
   <meta name="twitter:card" content="summary_large_image" />
   <meta name="twitter:title" content="AI Chart Analysis for MetaTrader 4 and MT5" />
   <meta name="twitter:description" content="Forex and gold are the instruments we have the best live data for. Paste an MT screenshot and get entry, stop, targets and risk, with the feed caveats stated up front." />
-  <meta name="twitter:image" content="https://tickrify.com/og.png" />
+  <meta name="twitter:image" content="https://tickrify.com/og.png?v=2" />
   <link rel="preconnect" href="https://fonts.googleapis.com">
   <link rel="preconnect" href="https://fonts.gstatic.com" crossorigin>
   <!-- Fonte fora do caminho critico (21/09/2026). Medido no PageSpeed:
